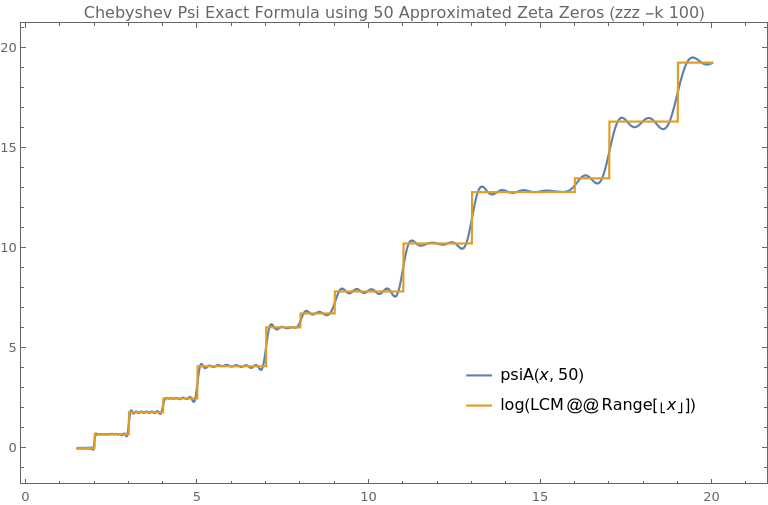
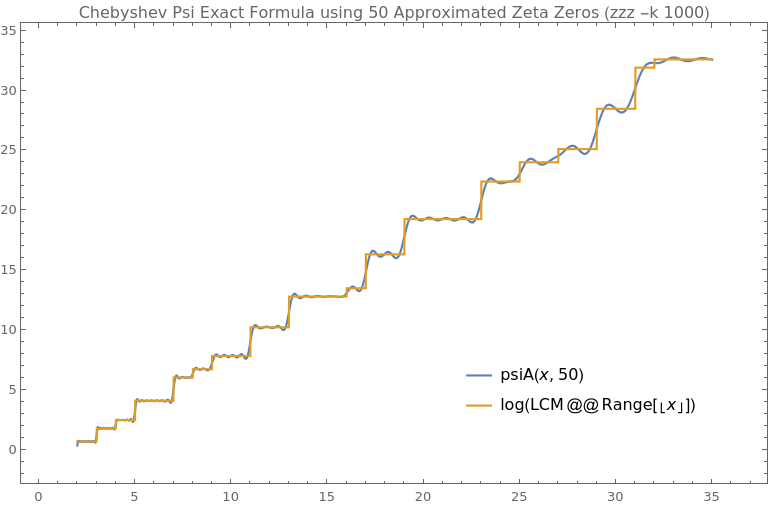
feat: debug counting function, update psi plots

diff --git a/main.c b/main.c
@@ -368,9 +368,8 @@ void zero_count_approx(arb_ptr out, arb_srcptr t, slong k, slong PREC) {
     for(int i = 1; i <= k; ++i) {
         arb_set_d(q, n_nth_prime(i));
 
-        arb_sqrt(att, q, PREC);
-        arb_log(w, t, PREC);
-        arb_div(att, w, att, PREC);
+        arb_div(att, t, q, PREC);
+        arb_sqrt(att,att,PREC);
         arb_neg(att, att);
         arb_exp(att, att, PREC);;
         arb_one(w);
@@ -404,8 +403,8 @@ void zero_count_approx(arb_ptr out, arb_srcptr t, slong k, slong PREC) {
         arb_set_d(y, 0.5);
         arb_add(y, y, x, PREC);
         arb_mul(z, z, y, PREC);
-        arb_mul(z, z, att, PREC);
 #endif
+        arb_mul(z, z, att, PREC);
         arb_add(u, u, z, PREC);
     }
     arb_set(out, u);
@@ -434,6 +433,7 @@ static struct argp_option options[] = {
         { "zeta-prec", 'z', "ZETA_PREC", 0, "arb precision for zeta evaluation [default 64]"},
         { "digits", 'd', "DIGITS", 0, "extra digits for number formatting [default 6]"},
         { "verbose", 'v', 0, 0, "verbose progress output"},
+        { "debug", 'g', 0, 0, "debug counting function from <N> to <N+offset> in <count> steps"},
         { 0 }
 };
 
@@ -446,6 +446,7 @@ struct arguments {
     slong ZETA_PREC;
     slong DIGITS;
     slong verbose;
+    slong debug;
 };
 
 static error_t parse_opt(int key, char *arg, struct argp_state *state) {
@@ -460,6 +461,7 @@ static error_t parse_opt(int key, char *arg, struct argp_state *state) {
         case 'z': arguments->ZETA_PREC = atol(arg); break;
         case 'd': arguments->DIGITS = atol(arg); break;
         case 'v': arguments->verbose = 1; break;
+        case 'g': arguments->debug = 1; break;
         case ARGP_KEY_ARG: return 0;
         default: return ARGP_ERR_UNKNOWN;
     }
@@ -503,6 +505,7 @@ int main(int argc, char *argv[])
     arguments.w0 = 1.5;
     arguments.eval = 0;
     arguments.verbose = 0;
+    arguments.debug = 0;
 
     int arg_index = 1;
     argp_parse(&argp, argc, argv, ARGP_NO_ARGS, &arg_index, &arguments);
@@ -532,7 +535,6 @@ int main(int argc, char *argv[])
     }
     if(argc > arg_index+1) {
         arb_set_str(m, argv[arg_index+1], arguments.PREC);
-        arb_add(m0, m0, m, arguments.PREC);
     }
 
     slong count = 1;
@@ -544,132 +546,157 @@ int main(int argc, char *argv[])
         n_compute_primes(arguments.k);
     }
 
-    for(slong ord = 0; ord < count || count < 0; ++ord) {
+    if(arguments.debug) {
+        arb_t tx;
+        arb_t zc;
+        arb_t stp;
 
-        nt_inv(tt, m0, arguments.PREC);
+        arb_init(tx);
+        arb_init(zc);
+        arb_init(stp);
+        arb_zero(tx);
+        arb_set(stp, m);
+        arb_div_ui(stp, stp, count, arguments.PREC);
+        arb_set(tx, m0);
+        arb_add(m, m, m0, arguments.PREC);
 
-        //calc required digits
-        arb_const_log10(u, arguments.PREC);
-        arb_log(m, tt, arguments.PREC);
-        arb_div(u, m, u, arguments.PREC);
-        arb_ceil(u, u, arguments.PREC);
-
-        slong digits = arguments.DIGITS;
-        digits += arf_get_si(&u->mid, 0);
-
-        if (arguments.verbose) {
-            flint_fprintf(stderr, "asymptotic zero location = ");
-            arb_fprintd(stderr, tt, digits);
-            flint_fprintf(stderr, "\n");
+        for (; arb_lt(tx, m); arb_add(tx, tx, stp, arguments.PREC)) {
+            zero_count_approx(zc, tx, arguments.k, arguments.PREC);
+            arf_printd(&tx->mid, arguments.DIGITS);
+            flint_printf("\t");
+            arf_printd(&zc->mid, arguments.DIGITS);
+            flint_printf("\n");
         }
+    } else {
+        arb_add(m0, m0, m, arguments.PREC);
 
-        arb_set_d(m, -0.5);
-        arb_add(m, m0, m, arguments.PREC);
-        arb_set(m_lo, m);
-        arb_set(m_hi, m);
+        for (slong ord = 0; ord < count || count < 0; ++ord) {
 
-        arb_t lo;
-        arb_t hi;
-        arb_t lo_t;
-        arb_t hi_t;
+            nt_inv(tt, m0, arguments.PREC);
 
-        arb_init(lo);
-        arb_init(hi);
-        arb_init(lo_t);
-        arb_init(hi_t);
+            //calc required digits
+            arb_const_log10(u, arguments.PREC);
+            arb_log(m, tt, arguments.PREC);
+            arb_div(u, m, u, arguments.PREC);
+            arb_ceil(u, u, arguments.PREC);
 
-        // tt / 2 PI
-        arb_const_pi(lo_t, arguments.PREC);
-        arb_div(hi, tt, lo_t, arguments.PREC);
-        arb_set_d(lo_t, 0.5);
-        arb_mul(hi, hi, lo_t, arguments.PREC);
+            slong digits = arguments.DIGITS;
+            digits += arf_get_si(&u->mid, 0);
 
-        acb_t zz;
-        acb_init(zz);
+            if (arguments.verbose) {
+                flint_fprintf(stderr, "asymptotic zero location = ");
+                arb_fprintd(stderr, tt, digits);
+                flint_fprintf(stderr, "\n");
+            }
 
-        arb_pos_inf(lo_t);
-        arb_neg_inf(hi_t);
+            arb_set_d(m, -0.5);
+            arb_add(m, m0, m, arguments.PREC);
+            arb_set(m_lo, m);
+            arb_set(m_hi, m);
 
-        arb_pos_inf(lo);
-        arb_neg_inf(hi);
+            arb_t lo;
+            arb_t hi;
+            arb_t lo_t;
+            arb_t hi_t;
 
-        arb_set_d(step, arguments.w0);
+            arb_init(lo);
+            arb_init(hi);
+            arb_init(lo_t);
+            arb_init(hi_t);
 
-        arb_sub(lo_t, tt, step, arguments.PREC);
-        arb_add(hi_t, tt, step, arguments.PREC);
+            // tt / 2 PI
+            arb_const_pi(lo_t, arguments.PREC);
+            arb_div(hi, tt, lo_t, arguments.PREC);
+            arb_set_d(lo_t, 0.5);
+            arb_mul(hi, hi, lo_t, arguments.PREC);
 
-        zero_count_approx(lo, lo_t, arguments.k, arguments.PREC);
-        zero_count_approx(hi, hi_t, arguments.k, arguments.PREC);
+            acb_t zz;
+            acb_init(zz);
 
-        if (arb_gt(lo, m) || arb_lt(hi, m) || arb_lt(hi, lo)) {
-            iter_print(lo_t, lo, hi_t, hi, digits, arguments.verbose);
-            flint_fprintf(stderr, "please increase the window\n");
-        } else {
+            arb_pos_inf(lo_t);
+            arb_neg_inf(hi_t);
 
-            arb_t mid_t;
-            arb_t mid;
-            arb_init(mid);
-            arb_init(mid_t);
+            arb_pos_inf(lo);
+            arb_neg_inf(hi);
 
-            while (1) {
+            arb_set_d(step, arguments.w0);
+
+            arb_sub(lo_t, tt, step, arguments.PREC);
+            arb_add(hi_t, tt, step, arguments.PREC);
+
+            zero_count_approx(lo, lo_t, arguments.k, arguments.PREC);
+            zero_count_approx(hi, hi_t, arguments.k, arguments.PREC);
+
+            if (arb_gt(lo, m) || arb_lt(hi, m) || arb_lt(hi, lo)) {
+                iter_print(lo_t, lo, hi_t, hi, digits, arguments.verbose);
+                flint_fprintf(stderr, "please increase the window\n");
+            } else {
+
+                arb_t mid_t;
+                arb_t mid;
+                arb_init(mid);
+                arb_init(mid_t);
+
+                while (1) {
+
+                    iter_print(lo_t, lo, hi_t, hi, digits, arguments.verbose);
+
+                    arb_add(mid_t, lo_t, hi_t, arguments.PREC);
+                    arb_set_d(mm, 0.5);
+                    arb_mul(mid_t, mid_t, mm, arguments.PREC);
+
+                    zero_count_approx(mid, mid_t, arguments.k, arguments.PREC);
+
+                    arb_zero(mm);
+                    if (arb_gt(mid, m)) {
+                        arb_set(hi_t, mid_t);
+                        arb_set(hi, mid);
+                    } else {
+                        arb_set(lo_t, mid_t);
+                        arb_set(lo, mid);
+                    }
+
+                    arb_sub(mm, hi_t, lo_t, arguments.PREC);
+                    arb_set_d(u, arguments.step0);
+                    if (arb_lt(mm, u)) break;
+
+                }
 
                 iter_print(lo_t, lo, hi_t, hi, digits, arguments.verbose);
 
-                arb_add(mid_t, lo_t, hi_t, arguments.PREC);
-                arb_set_d(mm, 0.5);
-                arb_mul(mid_t, mid_t, mm, arguments.PREC);
-
-                zero_count_approx(mid, mid_t, arguments.k, arguments.PREC);
-
-                arb_zero(mm);
-                if (arb_gt(mid, m)) {
-                    arb_set(hi_t, mid_t);
-                    arb_set(hi, mid);
-                } else {
-                    arb_set(lo_t, mid_t);
-                    arb_set(lo, mid);
+                if (arguments.verbose) {
+                    flint_fprintf(stderr, "argument s = \t");
+                    arb_set_d(lo_t, 0.5);
+                    acb_set_arb_arb(zz, lo_t, mid_t);
+                    acb_fprintd(stderr, zz, digits);
+                    flint_fprintf(stderr, "\n");
                 }
+                if (arguments.eval > 0) {
+                    flint_fprintf(stderr, "value    z = \t");
+                    zeta(zz, mid_t, arguments.ZETA_PREC);
+                    acb_fprintd(stderr, zz, digits);
+                    flint_fprintf(stderr, "\n");
+                }
+                arb_set_d(lo_t, 0.005);
 
-                arb_sub(mm, hi_t, lo_t, arguments.PREC);
-                arb_set_d(u, arguments.step0);
-                if (arb_lt(mm, u)) break;
+                arf_fprintd(stdout, &mid_t->mid, digits);
+                flint_fprintf(stdout, "\n");
+                fflush(stdout);
 
+                arb_one(m);
+                arb_add(m0, m0, m, arguments.PREC);
+
+                arb_clear(mid);
+                arb_clear(mid_t);
             }
 
-            iter_print(lo_t, lo, hi_t, hi, digits, arguments.verbose);
+            arb_clear(lo);
+            arb_clear(hi);
+            arb_clear(lo_t);
+            arb_clear(hi_t);
+            acb_clear(zz);
 
-            if(arguments.verbose) {
-                flint_fprintf(stderr, "argument s = \t");
-                arb_set_d(lo_t, 0.5);
-                acb_set_arb_arb(zz, lo_t, mid_t);
-                acb_fprintd(stderr, zz, digits);
-                flint_fprintf(stderr, "\n");
-            }
-            if (arguments.eval > 0) {
-                flint_fprintf(stderr, "value    z = \t");
-                zeta(zz, mid_t, arguments.ZETA_PREC);
-                acb_fprintd(stderr, zz, digits);
-                flint_fprintf(stderr, "\n");
-            }
-            arb_set_d(lo_t, 0.005);
-
-            arf_fprintd(stdout, &mid_t->mid, digits);
-            flint_fprintf( stdout, "\n");
-            fflush(stdout);
-
-            arb_one(m);
-            arb_add(m0, m0, m, arguments.PREC);
-
-            arb_clear(mid);
-            arb_clear(mid_t);
         }
-
-        arb_clear(lo);
-        arb_clear(hi);
-        arb_clear(lo_t);
-        arb_clear(hi_t);
-        acb_clear(zz);
-
     }
 
     arb_clear(m);

diff --git a/README.md b/README.md
@@ -8,6 +8,8 @@ fast approximation of large Riemann zeta zeros
   -d, --digits=DIGITS        extra digits for number formatting [default 6]
   -e, --evaluate             evaluate Riemann zeta function value at the
                              approximate zero location
+  -g, --debug                debug counting function from <N> to <N+offset> in
+                             <count> steps
   -k, --k=K                  use first k primes for zero counting function
                              approximation [default 100]
   -p, --precision=PREC       arb precision for counting function approximation
@@ -81,11 +83,11 @@ sys	0m0.002s
 
 ## Chebyshev Psi Exact Formula
 
-Using zeros approximated by default `zzz` settings.
+Using zeros approximated by `zzz -k 1000`.
 
-range 0 to 20  (50 zeros)          | range 541 to 661 (10,000 zeros)                        | range 7920-8020 (10,000 zeros)  
-:---------------------------------:|:------------------------------------------------------:|:--------------------------------------:
-![](doc/psi-50-zeros-k100-p1.png)  |          ![](doc/psi-10k-zeros-k100-p100.png)          | ![](doc/psi-10k-zeros-k100-p1000.png)
+range 0 to 20  (50 zeros)          |    range 541 to 661 (1,000 zeros)     | range 7920-8020 (10,000 zeros)  
+:---------------------------------:|:-------------------------------------:|:--------------------------------------:
+![](doc/psi-50-zeros-k1000-p1.png) | ![](doc/psi-10k-zeros-k1000-p100.png) | ![](doc/psi-10k-zeros-k1000-p1000.png)
 
 
 # Literature
